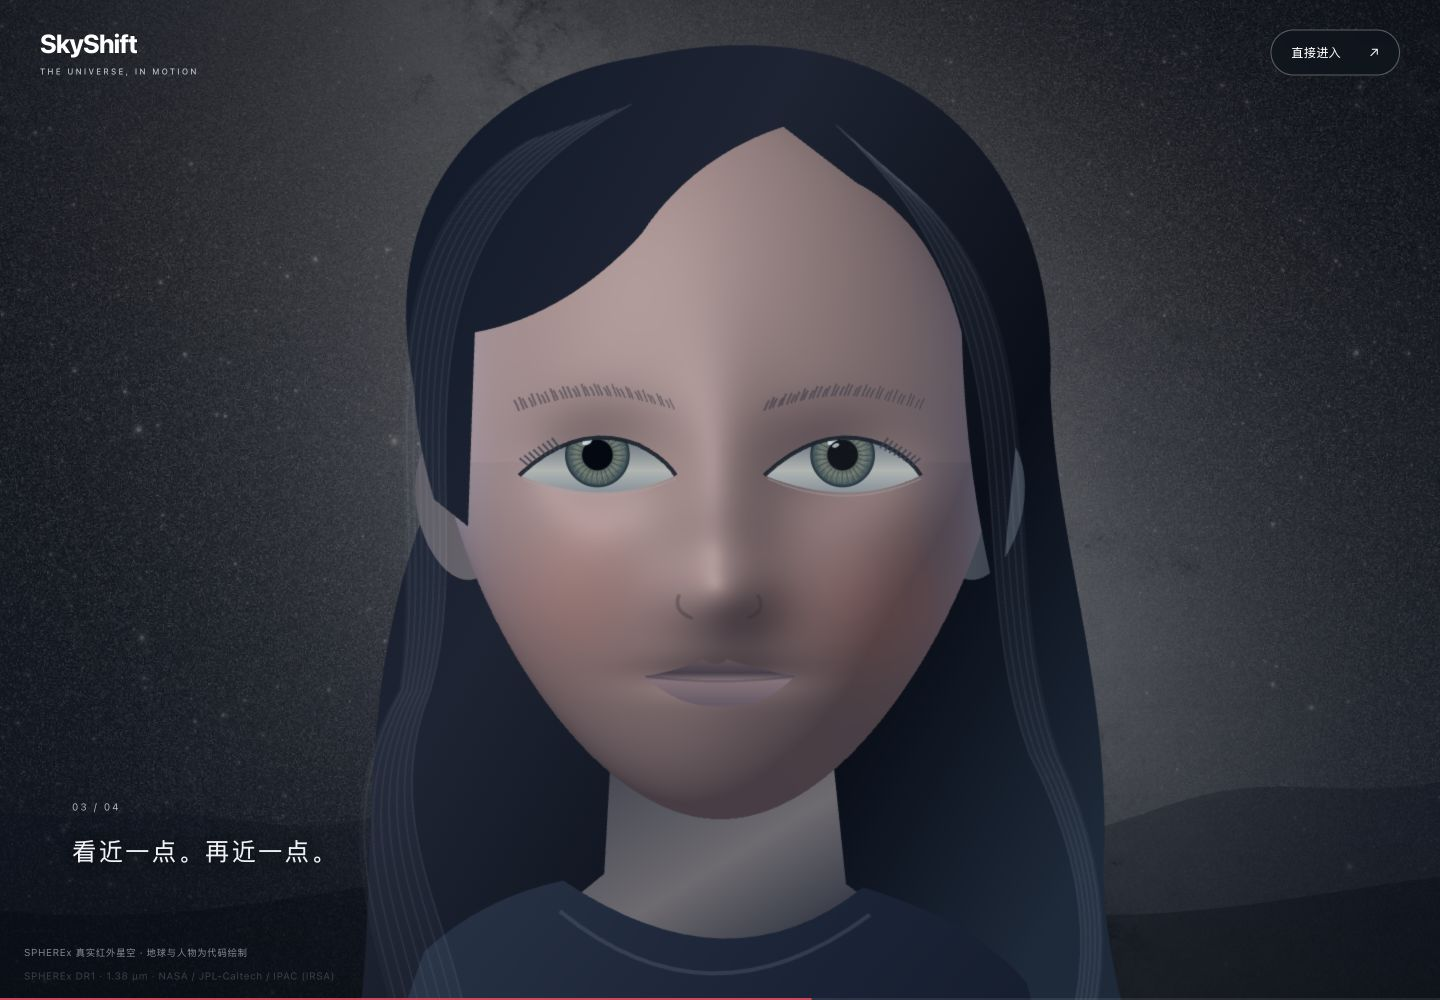
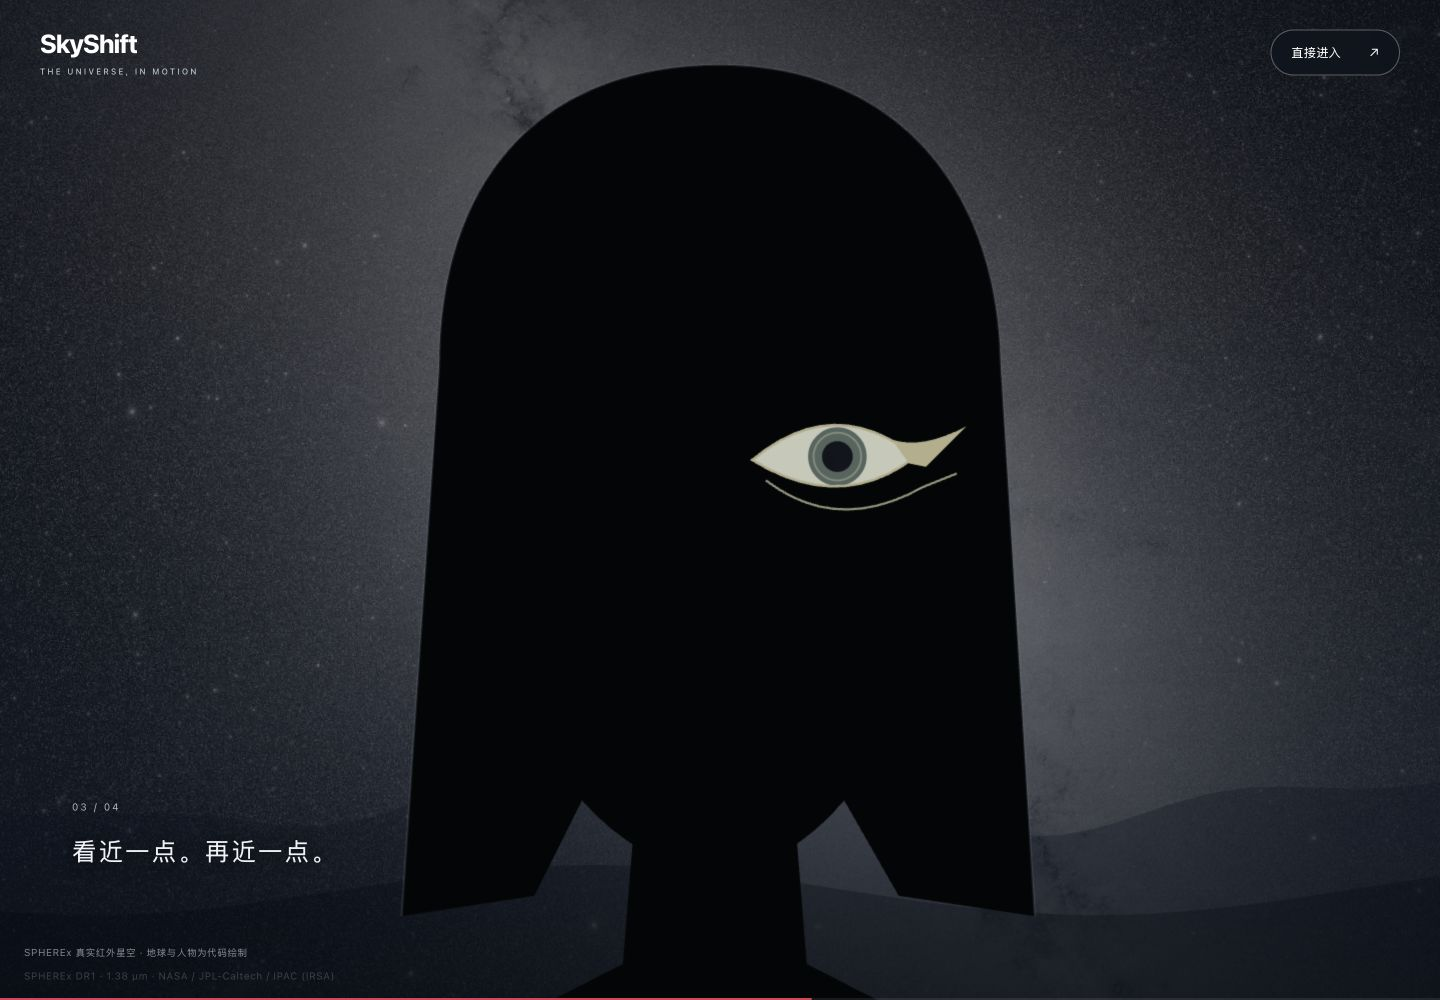
Replace opening portrait with a black mural-style silhouette
Keep only one almond eye and extended liner, remove shaded facial details,
and center the eye before zooming in. Fit the face framing to phone widths.
Update documentation and actual desktop/mobile preview captures.

diff --git a/web/src/intro/portrait.ts b/web/src/intro/portrait.ts
@@ -1,133 +1,37 @@
-/** Procedural frontal head: a lit 3-D height surface, authored hair curves and vector eyes.
- * Generated in memory by the running tool; no portrait images, video, or AI assets. */
+/** An authored black silhouette, with one mural-like eye. No face texture or image asset. */
 export const PORTRAIT_EYE = { x: 836, y: 409, radius: 4.5 };
-let skin: HTMLCanvasElement | undefined;
-const bell = (value: number, center: number, spread: number) => Math.exp(-(((value - center) / spread) ** 2));
 
-function depth(x: number, y: number): number {
-  const ny = (y - 411) / 105;
-  const width = 82 * (ny > 0 ? 1 - .23 * ny : 1);
-  const sphere = 1 - (x / width) ** 2 - ny ** 2;
-  if (sphere <= 0) return NaN;
-  return Math.sqrt(sphere) * 60
-    + 8 * bell(x, 0, 15) * bell(y, 429, 39)
-    + 9 * bell(x, 0, 16) * bell(y, 451, 11)
-    + 4 * (bell(x, -46, 22) + bell(x, 46, 22)) * bell(y, 445, 24)
-    - 8 * (bell(x, -36, 20) + bell(x, 36, 20)) * bell(y, 411, 14)
-    - 3 * bell(x, 0, 23) * bell(y, 474, 5);
+function fill(c: CanvasRenderingContext2D, d: string, color: string) {
+  c.fillStyle = color;
+  c.fill(new Path2D(d));
 }
 
-function skinSurface(): HTMLCanvasElement {
-  if (skin) return skin;
-  skin = document.createElement('canvas'); skin.width = 660; skin.height = 864;
-  const c = skin.getContext('2d')!;
-  const data = c.createImageData(skin.width, skin.height);
-  for (let py = 0; py < skin.height; py++) {
-    const y = 302 + py / 4;
-    for (let px = 0; px < skin.width; px++) {
-      const x = -82.5 + px / 4;
-      const z = depth(x, y);
-      if (!Number.isFinite(z)) continue;
-      const dx = (depth(x + .15, y) - depth(x - .15, y)) / .3;
-      const dy = (depth(x, y + .15) - depth(x, y - .15)) / .3;
-      if (!Number.isFinite(dx + dy)) continue;
-      const norm = Math.hypot(dx, dy, 1);
-      const diffuse = Math.max(0, (-dx * -.45 - dy * -.50 + .74) / norm);
-      const rim = Math.pow(Math.min(1, Math.abs(x) / 78), 7) * .27;
-      const blush = (bell(x, -44, 25) + bell(x, 44, 25)) * bell(y, 452, 22);
-      const sheen = Math.pow(Math.max(0, (-dx * -.2 - dy * -.25 + .94) / norm), 20) * 22;
-      const light = .43 + .55 * diffuse;
-      const i = (py * skin.width + px) * 4;
-      data.data.set([
-        Math.min(255, 172 * light + 20 * blush + sheen + rim * 70),
-        Math.min(255, 143 * light + 4 * blush + sheen + rim * 105),
-        Math.min(255, 131 * light + 12 + sheen + rim * 155),
-        255,
-      ], i);
-    }
-  }
-  c.putImageData(data, 0, 0);
-  return skin;
-}
+export function drawPortrait(c: CanvasRenderingContext2D): void {
+  const ink = '#030507';
+  // A quiet frontal outline: rounded crown, blunt hair, long neck and a tapered robe.
+  // No skin shading, nose, mouth, clothing folds or separate hair strands.
+  const head = 'M708 544 L719 383 C719 328 748 296 797 294 C849 292 883 326 884 382 L894 544 L854 538 L838 510 Q822 529 800 532 Q778 529 761 510 L747 538Z';
+  fill(c, 'M777 508 L823 508 L827 558 L866 578 Q879 587 883 609 L899 722 Q896 735 886 733 L864 643 L858 619 L851 716 L866 908 Q800 921 734 908 L749 716 L742 619 L735 643 L714 733 Q705 735 701 722 L717 609 Q721 587 734 578 L773 558Z', ink);
+  fill(c, 'M747 901 L774 902 L774 931 L779 944 L731 946 Q726 940 740 931Z M826 902 L853 901 L859 931 Q874 940 869 946 L821 944 L826 931Z', ink);
+  fill(c, head, ink);
+  // A very fine edge separates the silhouette from the night without modelling a face.
+  c.strokeStyle = '#91a5b52b'; c.lineWidth = .65;
+  c.stroke(new Path2D('M708 544 L719 383 C719 328 748 296 797 294 C849 292 883 326 884 382 L894 544'));
 
-function path(c: CanvasRenderingContext2D, d: string, fill: string | CanvasGradient) {
-  c.fillStyle = fill; c.fill(new Path2D(d));
-}
-function eye(c: CanvasRenderingContext2D, center: number, side: number, glint: number) {
-  const x = center;
-  // Upper lid arcs up; the slight upward gaze keeps the pupils above the lower lid.
-  const outline = `M${x - 23} 415 Q${x - 6} 399 ${x + 12} 406 Q${x + 20} 410 ${x + 23} 415 Q${x + 2} 425 ${x - 23} 415Z`;
-  const white = c.createLinearGradient(x, 402, x, 425);
-  white.addColorStop(0, '#526373'); white.addColorStop(.5, '#b0b6b2'); white.addColorStop(1, '#65788b');
-  c.save(); c.clip(new Path2D(outline));
-  path(c, outline, white);
-  const iris = c.createRadialGradient(x, 409, 2, x, 409, 9.5);
-  iris.addColorStop(0, '#263031'); iris.addColorStop(.55, '#64736d'); iris.addColorStop(.85, '#44595d'); iris.addColorStop(1, '#182d38');
-  c.fillStyle = iris; c.beginPath(); c.arc(x, 409, 9.5, 0, Math.PI * 2); c.fill();
-  for (let i = 0; i < 84; i++) {
-    const a = i * Math.PI * 2 / 84;
-    const r = 7.9 + Math.sin(i * 2.3) * .8;
-    c.strokeStyle = i % 3 ? '#a1a28270' : '#24414d99'; c.lineWidth = .22;
-    c.beginPath(); c.moveTo(x + Math.cos(a) * 4.8, 409 + Math.sin(a) * 4.8);
-    c.quadraticCurveTo(x + Math.cos(a + .04) * 7, 409 + Math.sin(a + .04) * 7, x + Math.cos(a) * r, 409 + Math.sin(a) * r); c.stroke();
-  }
-  c.fillStyle = '#030811'; c.beginPath(); c.arc(x, 409, 4.5, 0, Math.PI * 2); c.fill();
-  if (glint > 0) { c.fillStyle = `rgba(222,239,247,${glint * .8})`; c.beginPath(); c.ellipse(x - 3, 405, 1.6, 1, -.5, 0, Math.PI * 2); c.fill(); }
+  // One almond eye with elongated kohl wings, inspired by Egyptian mural linework.
+  // Keep the rest of the face entirely black. The pupil is opened onto real SPHEREx below.
+  const almond = 'M811 410 Q835 390 859 409 Q837 426 811 410Z';
+  fill(c, almond, '#c5c8b9');
+  c.save(); c.clip(new Path2D(almond));
+  c.fillStyle = '#55645e'; c.beginPath(); c.arc(836, 409, 8.6, 0, Math.PI * 2); c.fill();
+  c.strokeStyle = '#b7bba377'; c.lineWidth = .55;
+  c.beginPath(); c.arc(836, 409, 7, 0, Math.PI * 2); c.stroke();
+  c.fillStyle = ink; c.beginPath(); c.arc(836, 409, PORTRAIT_EYE.radius, 0, Math.PI * 2); c.fill();
   c.restore();
-  c.strokeStyle = '#18202be6'; c.lineWidth = 1.2;
-  c.stroke(new Path2D(`M${x - 23} 415 Q${x - 6} 399 ${x + 12} 406 Q${x + 20} 410 ${x + 23} 415`));
-  c.strokeStyle = '#a3a7a266'; c.lineWidth = .5;
-  c.stroke(new Path2D(`M${x - 22} 416 Q${x + 1} 426 ${x + 23} 416`));
-  c.strokeStyle = '#34404ecc'; c.lineWidth = .6;
-  for (let j = 0; j < 8; j++) {
-    const at = x + side * (11 + j * 1.35);
-    c.beginPath(); c.moveTo(at, 407 + j * .7); c.lineTo(at + side * 2.4, 404 + j * .85); c.stroke();
-  }
-  // Individual eyebrow hairs, rather than a heavy graphic band.
-  c.strokeStyle = '#29303c77';
-  for (let j = 0; j < 36; j++) {
-    const xx = x - 23 + j * 1.3 + Math.sin(j * 2.6) * .25;
-    const yy = 394 - Math.sin(j / 36 * Math.PI) * 4.4;
-    c.lineWidth = .4 + (1 - j / 36) * .25;
-    c.beginPath(); c.moveTo(xx, yy + 2); c.quadraticCurveTo(xx + side, yy - .5, xx + 1.5 * side, yy - 1.1 - Math.sin(j * 1.8) * .6); c.stroke();
-  }
-}
-
-export function drawPortrait(c: CanvasRenderingContext2D, glint = 1): void {
-  const hair = c.createLinearGradient(690, 370, 925, 500);
-  hair.addColorStop(0, '#111b2b'); hair.addColorStop(.3, '#1d2434'); hair.addColorStop(.7, '#080e19'); hair.addColorStop(1, '#1b2a3b');
-  path(c, 'M718 414 C691 349 720 300 777 292 C850 276 900 318 897 390 C899 434 913 471 913 521 C909 577 942 604 917 650 C889 681 850 629 814 637 C762 657 685 652 690 596 C704 541 687 484 718 414Z', hair);
-  const neck = c.createLinearGradient(770, 477, 822, 563);
-  neck.addColorStop(0, '#323746'); neck.addColorStop(.6, '#6e6b70'); neck.addColorStop(1, '#252c3c');
-  path(c, 'M769 478 L831 477 L837 535 L859 551 Q801 585 744 550 L766 532Z', neck);
-  const cloth = c.createLinearGradient(691, 550, 899, 730);
-  cloth.addColorStop(0, '#263449'); cloth.addColorStop(.4, '#182437'); cloth.addColorStop(1, '#0a1322');
-  path(c, 'M754 534 Q730 539 713 555 L681 647 L670 734 Q675 747 688 738 L716 662 L730 625 L725 736 Q801 759 873 736 L870 626 L889 674 L909 740 Q923 744 925 732 L914 649 L890 564 Q875 546 842 536 Q803 567 754 534Z', cloth);
-  path(c, 'M727 727 L871 729 L872 816 L857 931 L822 931 L811 824 L798 785 L784 828 L773 931 L738 931 L727 819Z', '#0a1220');
-  path(c, 'M735 923 L776 923 L775 945 L721 946 Q716 936 735 923Z M823 923 L858 923 L876 941 Q877 946 868 946 L822 943Z', '#050b14');
-  c.strokeStyle = '#7c8caa38'; c.lineWidth = 1.2;
-  c.stroke(new Path2D('M753 543 Q797 579 844 544 M724 577 L713 649 M870 577 L895 673 M746 745 L746 815 M812 745 L813 811'));
-  path(c, 'M670 731 Q666 746 672 754 Q683 764 688 750 L688 734Z M908 733 L909 752 Q914 763 923 751 L925 733Z', '#49505e');
-  // Ears and the smoothly shaded parametric surface.
-  const ears = c.createLinearGradient(710, 400, 890, 430);
-  ears.addColorStop(0, '#5d5963'); ears.addColorStop(.5, '#857e7e'); ears.addColorStop(1, '#35414f');
-  c.fillStyle = ears; c.beginPath(); c.ellipse(723, 424, 12, 22, -.2, 0, Math.PI * 2); c.fill(); c.beginPath(); c.ellipse(877, 424, 12, 22, .2, 0, Math.PI * 2); c.fill();
-  c.drawImage(skinSurface(), 717.5, 302, 165, 216);
-  // Nose and lips are restrained so the zoom reads as a face before it becomes an eye.
-  c.strokeStyle = '#332c3555'; c.lineWidth = 1.1;
-  c.stroke(new Path2D('M788 450 Q786 455 792 457 M808 457 Q814 455 811 450'));
-  const lips = c.createLinearGradient(800, 467, 800, 482);
-  lips.addColorStop(0, '#775c65'); lips.addColorStop(.4, '#463f4c'); lips.addColorStop(.55, '#8a7279'); lips.addColorStop(1, '#695a68');
-  path(c, 'M778 474 Q789 472 795 469 Q799 472 802 469 Q811 472 822 474 Q812 484 800 483 Q787 483 778 474Z', lips);
-  c.strokeStyle = '#433a485f'; c.lineWidth = .7; c.stroke(new Path2D('M778 474 Q800 477 822 474'));
-  eye(c, 764, -1, glint); eye(c, 836, 1, glint);
-  // A softly parted fringe and long strands frame the frontal face.
-  path(c, 'M716 422 C699 364 717 310 771 299 Q816 283 849 308 C814 308 790 324 777 344 Q755 368 728 373 L726 430Z', hair);
-  path(c, 'M810 306 C863 285 896 336 888 395 L882 455 Q872 416 871 373 Q863 341 840 329Z', hair);
-  for (let i = 0; i < 27; i++) {
-    const dx = i * 1.15;
-    c.strokeStyle = i % 4 ? '#71819a12' : '#a0adbb21'; c.lineWidth = .55;
-    c.stroke(new Path2D(`M${774 - dx} ${306 + i * .4} C${693 - dx * .15} 349 ${731 - dx * .55} 422 ${715 - dx * .3} 478 C${693 - dx * .6} 532 ${746 - dx} 569 ${718 - dx * .4} 617`));
-    if (i < 19) c.stroke(new Path2D(`M${834 + dx} ${312 + i} C${897 + dx * .3} 369 ${869 + dx * .5} 438 ${891 + dx * .4} 497 Q${923 + dx * .2} 558 ${887 + dx * .4} 610`));
-  }
+  c.strokeStyle = '#b3ae8a'; c.lineWidth = .75;
+  c.stroke(new Path2D(almond));
+  // Tapered outer flick and a single fine lower sweep, rather than realistic eyelashes.
+  fill(c, 'M852 404 Q861 407 874 400 L862 412 L857 411Z', '#b3ae8a');
+  c.strokeStyle = '#92947a'; c.lineWidth = .65;
+  c.stroke(new Path2D('M815 416 Q836 432 861 418 L871 414'));
 }

diff --git a/web/src/intro/scene.ts b/web/src/intro/scene.ts
@@ -65,28 +65,26 @@ function horizon(c: CanvasRenderingContext2D, w: number, h: number, s: SceneStat
 function girl(c: CanvasRenderingContext2D, w: number, h: number, s: SceneState) {
   if (!s.girl) return;
   const base = Math.min(w / 640, h / 980) * .74;
-  const faceZoom = base * Math.pow(5 / base, s.face);
+  const faceTarget = Math.min(5, w / 210);
+  const faceZoom = base * Math.pow(faceTarget / base, s.face);
   const eyeZoom = faceZoom * Math.pow(18 / faceZoom, s.eye);
   const full = Math.hypot(w, h) / (PORTRAIT_EYE.radius * 1.8);
   const scale = eyeZoom * Math.pow(full / eyeZoom, s.pupil);
-  // Stay square to the face, showing both eyes, before approaching the right pupil.
-  const centerX = 800 + (PORTRAIT_EYE.x - 800) * s.eye;
-  const centerY = 420 + (PORTRAIT_EYE.y - 420) * s.eye;
+  // Stay square to the silhouette, then approach its single visible eye.
+  const lookAtEye = smooth(s.p, .55, .66);
+  const centerX = 800 + (PORTRAIT_EYE.x - 800) * lookAtEye;
+  const centerY = 420 + (PORTRAIT_EYE.y - 420) * lookAtEye;
   // Anchor her feet to the ground even when portrait width limits the model scale.
   const standingEyeY = h * .86 - (946 - 420) * base;
   const x = w * .5, y = standingEyeY * (1 - s.face) + h * .5 * s.face;
   c.save(); c.globalAlpha = s.girl;
   c.fillStyle = `rgba(7,13,23,${smooth(s.p, .65, .70)})`; c.fillRect(0, 0, w, h);
   c.translate(x, y); c.scale(scale, scale); c.translate(-centerX, -centerY);
-  drawPortrait(c, 1 - smooth(s.p, .70, .76));
+  drawPortrait(c);
   c.globalCompositeOperation = 'destination-out'; c.globalAlpha = 1;
   c.beginPath(); c.arc(PORTRAIT_EYE.x, PORTRAIT_EYE.y, PORTRAIT_EYE.radius, 0, Math.PI * 2); c.fill();
   c.globalCompositeOperation = 'source-over';
   c.fillStyle = `rgba(3,8,15,${.88 * (1 - smooth(s.p, .70, .89))})`; c.fill();
-  if (s.p < .74) {
-    c.fillStyle = `rgba(220,237,245,${.7 * (1 - smooth(s.p, .65, .74))})`;
-    c.beginPath(); c.ellipse(PORTRAIT_EYE.x - 2, PORTRAIT_EYE.y - 2.8, 1.1, .6, -.4, 0, Math.PI * 2); c.fill();
-  }
   c.restore();
 }
 

diff --git a/docs/scroll-intro.md b/docs/scroll-intro.md
@@ -3,8 +3,9 @@
 Local implementation on `codex/frontend-unified`, 14 November 2026. No push or deployment.
 The latest user reference supplies the dashboard's light gray panels, dark text, rounded
 controls and red accents. It is a style reference, not a data source or an instruction to
-replace the existing scientific tools. The opening uses a front-facing girl and moves toward
-her eyes, as requested in the final correction.
+replace the existing scientific tools. The latest correction uses a black, frontal silhouette
+with one visible almond eye and extended liner inspired by ancient Egyptian murals. The camera
+approaches the silhouette straight on, centers the eye, then enters its pupil.
 
 ## Camera and rendering
 
@@ -16,15 +17,16 @@ time-based interpolation. Scrolling backwards reverses the shot. Resize preserve
 | --- | --- |
 | 0–0.25 | Real SPHEREx sky, title, enlarging shaded Earth |
 | 0.25–0.45 | Cloud passage, night hills, standing girl |
-| 0.45–0.70 | Frontal face, both eyes, then right pupil |
+| 0.45–0.70 | Frontal black silhouette, single visible eye, then pupil |
 | 0.70–0.90 | Real sky visible through pupil, expanding to fill the screen |
 | 0.90–1 | Search/header, five targets, existing player, candidate list reveal in order |
 
-Canvas paths and gradients draw Earth, clouds, scenery, hair and clothing. The face is a
-procedurally shaded height surface with authored eyes, iris strokes, brows and lips; it is a
-stylized frontal portrait, not a photorealistic rigged 3D asset. Its lighting is computed once
-into an in-memory canvas. No video, AI-generated image, external character model or generated
-astronomical pixels are used. Only the first screen's sky has slow ambient rotation; the
+Canvas paths and gradients draw Earth, clouds and scenery. The figure is a flat black outline:
+rounded crown, blunt hair, long neck and tapered robe. A single pale almond eye has a simple
+iris and extended liner. There is no skin shading, nose, mouth, hair-strand texture or clothing
+detail. Mobile face framing scales to viewport width and centers the eye before its close-up.
+No video, AI-generated image, external character model or generated astronomical pixels are
+used. Only the first screen's sky has slow ambient rotation; the
 narrative camera is controlled by scroll. The sky stops rotating for the dashboard.
 
 ## Real sky and provenance
@@ -85,7 +87,7 @@ Run the existing Vite preview at <http://127.0.0.1:5173/>. Returning visitors ca
 
 These captures are screenshots of the running local tool, not generated concept art:
 
-![Frontal approach](previews/intro/frontal-face.jpg)
+![Black silhouette with mural-style eye](previews/intro/frontal-face.jpg)
 ![Dashboard](previews/intro/desktop-dashboard.jpg)
 
 Additional captures: [landing](previews/intro/landing.jpg),

diff --git a/web/DESIGN.md b/web/DESIGN.md
@@ -9,8 +9,10 @@ on `codex/frontend-unified`.
 ## Current opening (14 November 2026)
 
 `#/` is a scroll-controlled space → Earth → ground → frontal face → pupil → real sky sequence.
-The portrait uses procedural surface shading and authored Canvas paths. The face stays front-on
-before the camera approaches one pupil. There are no video files or AI-generated visual assets.
+The figure is a flat black silhouette drawn with Canvas paths. It has one almond eye with
+extended liner inspired by Egyptian murals; no skin shading or other facial features remain.
+The camera stays front-on and centers the eye before approaching its pupil. Phone framing
+adapts to viewport width. There are no video files or AI-generated visual assets.
 The same live dashboard emerges at the end and becomes interactive at `#/explore`.
 
 Entry/Explore-only styles live in `src/intro/intro.css`: persistent search/navigation, five target

diff --git a/docs/frontend-unification.md b/docs/frontend-unification.md
@@ -1,7 +1,7 @@
 # Unified observatory frontend
 
 The current entry/Explore shell follows the latest light dashboard reference and includes a
-scroll opening with a frontal face approach. See [the opening implementation and verification](scroll-intro.md)
+scroll opening with a frontal black silhouette and a single mural-style eye. See [the opening implementation and verification](scroll-intro.md)
 for current routes, real-sky provenance and 1,006 passing local checks (4 network skips).
 
 The integration baseline documented below is the earlier black observatory screenshot:
